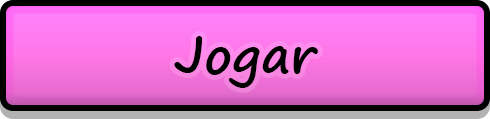
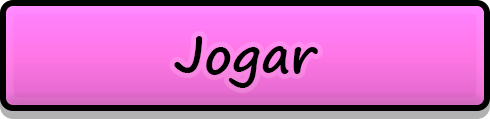
feat: novos botoes + hover

Changed region(s): [[0.0, 0.0504, 1.0, 0.8571], [0.0, 0.8067, 0.0306, 0.8571]]

diff --git a/style.css b/style.css
@@ -31,6 +31,12 @@ button{
     width: 275px;
     height: 100px;
 }
+.start:hover{
+    background: url('./assets/menu/jogar_hover.png');
+    background-position: center;
+    background-repeat: no-repeat;
+    background-size: 75%;
+}
 .instrucoes{
     float: left;
     background: url('./assets/menu/tutorial.png');
@@ -41,6 +47,12 @@ button{
     height: 100px;
     margin-top: -35px;
 }
+.instrucoes:hover{
+    background: url('./assets/menu/tutorial_hover.png');
+    background-position: center;
+    background-repeat: no-repeat;
+    background-size: 75%;
+}
 .creditos{
     float: left;
     background: url('./assets/menu/creditos.png');
@@ -50,6 +62,12 @@ button{
     width: 275px;
     height: 100px;
     margin-top: -35px;
+}
+.creditos:hover{
+    background: url('./assets/menu/creditos_hover.png');
+    background-position: center;
+    background-repeat: no-repeat;
+    background-size: 75%;
 }
 .voltar{
     background: url('./assets/menu/sair.png');
@@ -62,4 +80,10 @@ button{
     position: absolute;
     right: 100px;
     display: none;
+}
+.voltar:hover{
+    background: url('./assets/menu/sair_hover.png');
+    background-position: center;
+    background-repeat: no-repeat;
+    background-size: 50%;
 }
